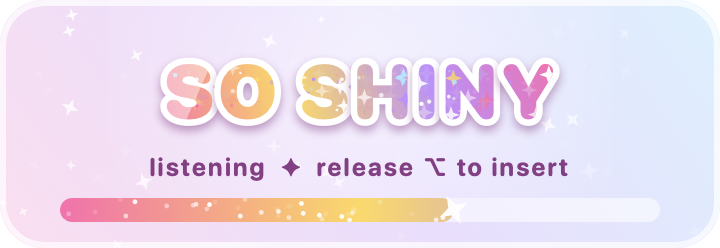
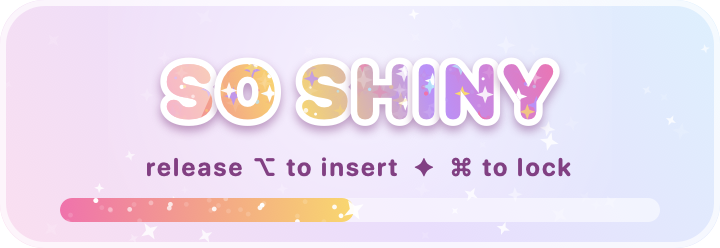
Docs for 1.5.3

diff --git a/TESTERS.md b/TESTERS.md
@@ -1,15 +1,17 @@
 # Testing Inside Voice (pre-release builds)
 
 Thanks for kicking the tires. What you're testing: **hold Right ⌥ anywhere,
-speak, release** — the transcript lands in whatever app has focus. Everything
-runs on-device: no network at runtime, audio never touches disk, transcripts
-are never logged.
+speak, release** — the transcript lands in whatever app has focus. For long
+dictation, **tap Right ⌘ while holding** to lock recording on hands-free,
+then tap Right ⌥ to finish. Everything runs on-device: no network at
+runtime, audio never touches disk, transcripts are never logged.
 
 ## Requirements
 
 - **Apple Silicon** Mac (M1 or later; built on an M3)
-- **macOS 26 recommended.** 14/15 may work but is untested — if the app
-  won't launch there, that's a useful bug report in itself.
+- **macOS 14 or later.** Built and tested on macOS 26. 14 (Sonoma) and 15
+  (Sequoia) are supported but haven't been tried on real hardware yet, so a
+  report from either is especially useful, even if it's just "it works".
 - ~0.8 GB free RAM while running with the recommended Parakeet engine
   (~1.7 GB if you add Whisper); 669 MB disk for the one-time Parakeet
   download, 1.6 GB more for optional Whisper (needs a network that doesn't
@@ -41,7 +43,8 @@ A setup window walks you through everything:
    pane it opens
 3. **Start at login** — recommended, one click
 4. **Keyboard check** — press your right-hand ⌥ and the diagram lights up
-   green (it'll correct you if you hit the left one)
+   green (it'll correct you if you hit the left one). The Right ⌘ next to
+   it is marked "lock": hold ⌥, tap ⌘, and both light up orange
 
 The "Try it" field at the bottom stays disabled until everything above is
 green — that's your signal you're ready.
@@ -62,8 +65,9 @@ Day-to-day usage, menu reference, and troubleshooting live in the
 - Dictate into different apps: browser, terminal, Slack, a code editor
 - Long utterances vs. quick phrases; a quick tap (should do nothing); a
   hold with no speech (should say "Didn't catch that")
-- **Latch mode**: hold Right ⌥, tap Right ⌘, let go of both, talk for a
-  while with pauses, tap Right ⌥ to finish — text should land at the cursor
+- **Hands-free lock** (latch): hold Right ⌥, tap Right ⌘, let go of both,
+  talk for a while with pauses, tap Right ⌥ to finish — text should land at
+  the cursor
 - Jargon and proper nouns — then add your own under Advanced → Vocabulary →
   Edit Personal List… and see if recognition improves
 - Engines (Advanced → Engine): Auto vs Parakeet vs Whisper — note speed and

diff --git a/USER-GUIDE.md b/USER-GUIDE.md
@@ -7,19 +7,30 @@ your cursor is — any app, any text field. That's the whole product; the rest
 of this guide is refinement.
 
 While you hold the key, a small floating panel shows a live level meter
-("Listening — release ⌥ to insert"), then a spinner ("Transcribing…"), then
+("Release ⌥ to insert · ⌘ to lock"), then a spinner ("Transcribing…"), then
 disappears as the text lands. On an M-series Mac the wait after release is
 under a second for typical utterances.
 
-**For long dictations, latch it:** while holding Right ⌥, tap **Right ⌘**
-(right next to it) — the recording locks and you can let go of everything.
-Speak as long as you like; the HUD stays on screen with a lock indicator
-the whole time so you always know the mic is live. Tap Right ⌥ once to
-finish and insert. The latch chord starts from a held key, so it never
-looks like a double-tap to other apps' hotkey gestures.
+| To… | Do this |
+|---|---|
+| Dictate a sentence or two | **Hold Right ⌥**, speak, release |
+| Dictate hands-free, as long as you like | Hold Right ⌥, **tap Right ⌘**, let go of both. Tap Right ⌥ to finish |
 
 ![The HUD while listening](docs/images/hud-listening.png)
-![The HUD while latched](docs/images/hud-locked.png)
+![The HUD while locked on](docs/images/hud-locked.png)
+
+### Hands-free: lock it on
+
+For anything longer than a breath, lock the recording (the "latch"): while
+holding Right ⌥, tap **Right ⌘**, the key right next to it. The recording
+locks on and you can let go of everything. Speak as long as you like, pauses
+included; the HUD stays on screen with a lock indicator the whole time, so
+you always know the mic is live. Tap Right ⌥ once to finish and insert.
+
+The lock starts from a held key, so it never looks like a double-tap to
+other apps' hotkey gestures. The reminders are in the app too: the menu's
+second line, the Setup Assistant's keyboard diagram, and the listening HUD
+("⌘ to lock") in the Modern, Glitter Text, and Top Secret themes.
 
 Some details you'll discover anyway, made explicit:
 

diff --git a/README.md b/README.md
@@ -4,11 +4,14 @@
 
 **Push-to-talk dictation for macOS that never leaves your Mac.** Hold Right ⌥
 (Option), speak, release — the transcript lands in whatever app has focus.
+Got a lot to say? Tap **Right ⌘** while holding to lock recording on, let
+go, and talk hands-free; tap Right ⌥ to finish.
 
 [![Latest release](https://img.shields.io/github/v/release/BillDX/InsideVoice?label=download&color=2ea44f)](https://github.com/BillDX/InsideVoice/releases/latest)
 ![Platform](https://img.shields.io/badge/macOS%2014%2B-Apple%20Silicon-black)
 
 ![The HUD while listening](docs/images/hud-listening.png)
+![The HUD while locked on, hands-free](docs/images/hud-locked.png)
 
 - **No network at runtime.** Speech is transcribed on-device by NVIDIA
   Parakeet TDT or OpenAI Whisper large-v3-turbo (via whisper.cpp),
@@ -79,9 +82,12 @@ is green.
 
 ## What it does
 
-- **One gesture.** Hold Right ⌥ and talk; quick taps are ignored, so the key
-  still works as a normal modifier. For long dictation, tap Right ⌘ while
-  holding to **latch** hands-free; tap Right ⌥ to finish.
+- **Hold to talk.** Hold Right ⌥ and speak; release to insert. Quick taps
+  are ignored, so the key still works as a normal modifier.
+- **Lock for hands-free.** While holding Right ⌥, tap Right ⌘ (the key next
+  to it) and let go of both: recording stays on, with a lock showing on
+  screen the whole time, until you tap Right ⌥ to finish. Made for long
+  dictation.
 - **Two engines, auto-routed.** Parakeet (fast, best plain-English accuracy,
   European languages) and Whisper (99 languages, steerable by your
   vocabulary). *Auto* picks per utterance.

diff --git a/CHANGELOG.md b/CHANGELOG.md
@@ -1,5 +1,21 @@
 # Changelog
 
+## 1.5.3 — 2026-09-21
+
+- The hands-free lock (hold Right ⌥, tap Right ⌘, let go; tap Right ⌥ to
+  finish) is now shown where you'll see it: a second line in the menu, the
+  Setup Assistant (the Right ⌘ key is marked "lock" on the keyboard
+  diagram, with a tip below it, and pressing the two keys confirms it),
+  and the listening HUD in Modern, Glitter Text, and Top Secret
+  ("⌘ to lock"). The README and User Guide now lead with both gestures.
+- **macOS 14 and 15 fix.** Earlier releases bundled speech-engine libraries
+  built for macOS 26. On macOS 14 (Sonoma) that kept the GPU (Metal) engine
+  from loading, so Whisper fell back to the CPU and ran many times slower
+  (Parakeet was unaffected). whisper.cpp and ggml are now built from source
+  for macOS 14, and the build refuses to package any part that needs a
+  newer macOS than the app supports. The bundle no longer includes
+  `libomp`; ggml uses its own thread pool, with the same speed.
+
 ## 1.5.2 — 2026-09-21
 
 - New **About Inside Voice** menu item: version, copyright, a plain

diff --git a/LICENSING.md b/LICENSING.md
@@ -87,6 +87,6 @@ to relicense every line it ships.
 ## Third-party components
 
 The speech engines, ggml, the bundled VAD model, and the models the app
-downloads are under MIT, Apache-2.0, and CC-BY-4.0 licenses — see
+downloads are under MIT and CC-BY-4.0 licenses — see
 [THIRD-PARTY-LICENSES.md](THIRD-PARTY-LICENSES.md), also shipped inside
 the app bundle. None of them constrain the licensing choices above.

diff --git a/THIRD-PARTY-LICENSES.md b/THIRD-PARTY-LICENSES.md
@@ -14,10 +14,6 @@ https://github.com/ggml-org/whisper.cpp
 Copyright (c) 2023-2026 The ggml authors
 https://github.com/ggml-org/ggml
 
-### LLVM OpenMP runtime (libomp) — Apache License 2.0 with LLVM Exceptions
-Copyright The LLVM Project.
-Full text: https://llvm.org/LICENSE.txt
-
 ## Models
 
 ### Silero VAD (ggml conversion, bundled in Contents/Resources) — MIT License
